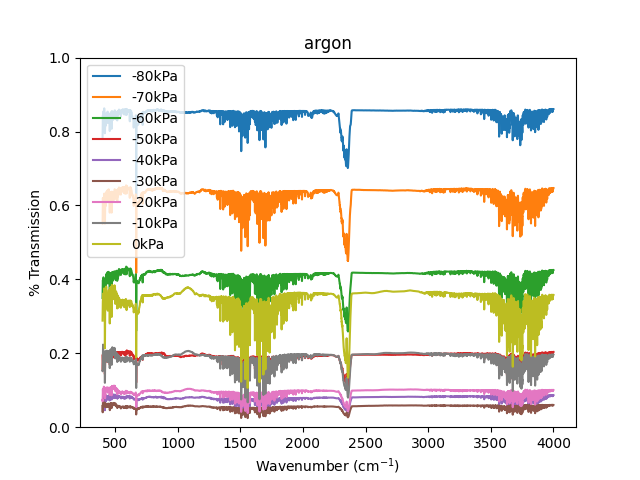
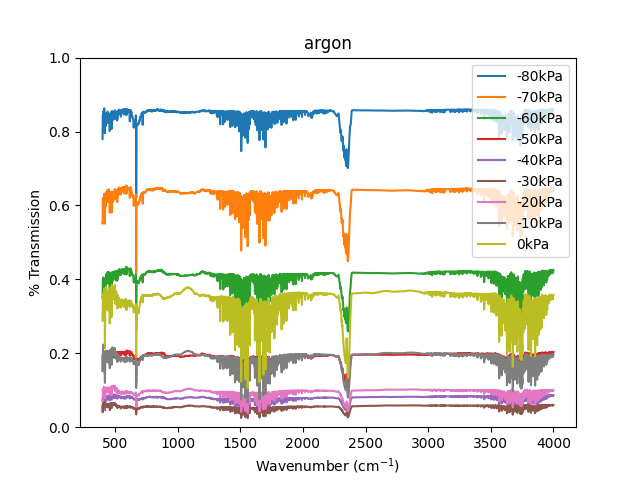
added function that calculates total transmission over a spectral window

Changed region(s): [[0.125, 0.125, 0.2812, 0.5312], [0.7188, 0.125, 0.875, 0.5312]]

diff --git a/src/analysis.py b/src/analysis.py
@@ -45,9 +45,13 @@ if __name__ == "__main__":
     #     for file in sample:
     #         print(file)
 
-    figure_path = Path.cwd() / "outputs" / "bkgd_ratio"
+    figure_path = Path.cwd() / "outputs"
     try:
-        Path.mkdir(figure_path)
+        Path.mkdir(figure_path / "bkgd_ratio")
+    except OSError:
+        pass
+    try:
+        Path.mkdir(figure_path / "co2_absorption")
     except OSError:
         pass
 
@@ -62,24 +66,53 @@ if __name__ == "__main__":
             list_wavenumbers.append(wavenumbers)
             list_transmission.append(transmission)
             overlay_plot_labels.append(str(sample).split("_")[5])
-            spectra.plot_spectrum(
-                wavenumbers,
-                transmission,
-                str(sample.name)[17:-13],
-                "Wavenumber (cm$^{-1}$)",
-                "% Transmission",
-                y_lim=(0, 1),
-                save_fig=True,
-                path_save=figure_path / (str(sample.name)[17:-12] + ".png"),
-            )
-        spectra.overlay_spectra(
-            list_wavenumbers,
-            list_transmission,
-            overlay_plot_titles[i],
-            "Wavenumber (cm$^{-1}$)",
-            "% Transmission",
-            overlay_plot_labels,
-            y_lim=(0, 1),
-            save_fig=True,
-            path_save=figure_path / (overlay_plot_titles[i] + "_by_pressure.png"),
-        )
+            # spectra.plot_spectrum(
+            #     wavenumbers,
+            #     transmission,
+            #     str(sample.name)[17:-13],
+            #     "Wavenumber (cm$^{-1}$)",
+            #     "% Transmission",
+            #     y_lim=(0, 1),
+            #     save_fig=True,
+            #     path_save=figure_path / "bkgd_ratio" / (str(sample.name)[17:-12] + ".png"),
+            # )
+        # spectra.overlay_spectra(
+        #     list_wavenumbers,
+        #     list_transmission,
+        #     overlay_plot_titles[i],
+        #     "Wavenumber (cm$^{-1}$)",
+        #     "% Transmission",
+        #     overlay_plot_labels,
+        #     y_lim=(0, 1),
+        #     save_fig=True,
+        #     path_save=figure_path / "bkgd_ratio" / (overlay_plot_titles[i] + "_by_pressure.png"),
+        # )
+
+        ## CO2 absorption peak: 2200-2500 cm^{-1}
+        list_cropped_wavenumbers, list_cropped_transmission = [], []
+        for j in range(len(list_wavenumbers)):
+            start = 0
+            while list_wavenumbers[j][start] < 2200:
+                start += 1
+            end = start
+            while list_wavenumbers[j][end] < 2500:
+                end += 1
+            list_cropped_wavenumbers.append(list_wavenumbers[j][start:end])
+            list_cropped_transmission.append(list_transmission[j][start:end])
+        # spectra.overlay_spectra(
+        #     list_cropped_wavenumbers,
+        #     list_cropped_transmission,
+        #     "CO$_2$ peak observed in " + overlay_plot_titles[i] + " sample",
+        #     "Wavenumber (cm$^{-1}$)",
+        #     "% Transmission",
+        #     overlay_plot_labels,
+        #     y_lim=(0, 1),
+        #     save_fig=True,
+        #     path_save=figure_path
+        #     / "co2_absorption"
+        #     / ("co2_peak_" + overlay_plot_titles[i] + "_by_pressure.png"),
+        # )
+
+        ## integrating to get total transmission over 2280-2390 cm^{-1}
+        list_co2_transmission = []
+

diff --git a/src/spectra.py b/src/spectra.py
@@ -9,6 +9,7 @@ Author: Shiqi Xu
 import numpy as np
 import pandas as pd
 import matplotlib.pyplot as plt
+from scipy import integrate
 
 
 def wavelength_to_wavenumber(wavelengths):
@@ -155,7 +156,7 @@ def overlay_spectra(
                 y_lim=y_lim,
                 hold_on=True,
             )
-    plt.legend(plot_labels)
+    plt.legend(plot_labels, loc="upper right")
 
     plt.xlabel(x_label)
     plt.ylabel(y_label)
@@ -199,6 +200,36 @@ def background_ratio(
     transmission = joined_data.loc[:, "transmission"].to_numpy()
 
     return wavenumbers, transmission
+
+
+def tot_transmission(
+    wavenumber_data, transmission_data, min_wavenumber, max_wavenumber
+):
+    """Integrates to find total transmission over indicated spectral window.
+
+    Args:
+        wavenumber_data (numpy.array[float]): Array containing wavenumber data.
+        transmission_data (numpy.array[float]): Array containing % transmission data.
+        min_wavenumber (float): Lower wavenumber in spectral window.
+        max_wavenumber (float): Upper wavenumber in spectral window.
+
+    Returns:
+        total_transmission (float): Total % transmission (normalized) over
+            spectral window.
+    """
+    start = 0
+    while wavenumber_data[start] < min_wavenumber:
+        start += 1
+    end = start
+    while wavenumber_data[end] < max_wavenumber:
+        end += 1
+    wavenumber_cropped = wavenumber_data[start:end]
+    transmission_cropped = transmission_data[start:end]
+    total_transmission = integrate.trapz(transmission_cropped, wavenumber_cropped) / (
+        max_wavenumber - min_wavenumber
+    )
+
+    return total_transmission
 
 
 # def fourier_transform(ifg_x, ifg_y):
